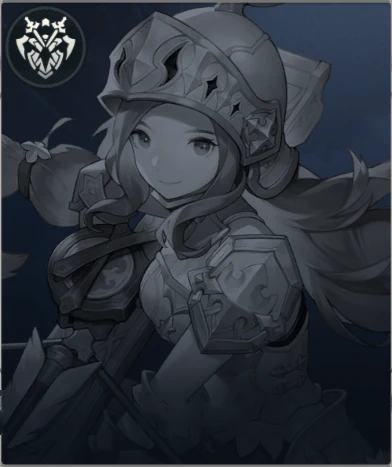
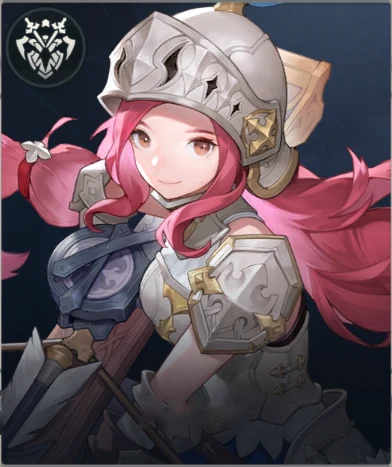
Coloured heroes and Refreshing Canary, titles 34/109, tower selector World-only
Claude-Session: https://claude.ai/code/session_01EEUGEvrXwKPrFvs6vdLXcJ

diff --git a/index.html b/index.html
@@ -1998,7 +1998,7 @@ function renderDamageCalc(){const root=$('dcRoot');if(!root||!DAMAGE_CALC||!DEFE
  <div class="gx-box"><h3>Skill</h3><div class="dc-g"><label class="dc-f"><span>Hero</span><select id="dcHero">${HEROES.map(h=>`<option${h.name===S.hero?' selected':''}>${E(h.name)}</option>`).join('')}</select></label><label class="dc-f dc-w"><span>Skill</span><select id="dcSkill"></select></label><label class="dc-f"><span>Skill level</span><select id="dcLv"></select></label><label class="dc-f" id="dcVarW"><span>How it's used</span><select id="dcVar"></select></label>${num('pct','Skill %')}</div><p class="gx-note" id="dcSkillNote"></p></div>
  <div class="gx-box"><h3>Your stats</h3><p class="gx-sub">${E(C.statsHint)}</p><div class="dc-g">${num('attack','Attack')}${num('cd','Critical Damage %')}${num('cr','Critical Rate %')}${num('ap','Armor Penetration')}${num('di','Defense Ignore %')}${num('all','All Status Additional Attack Power')}${num('inc','Status Additional Attack Power Increase %')}</div>
  <details class="dc-more"><summary>Attack buff not on your panel</summary><p class="gx-note">${E(C.buffHint)}</p><div class="dc-g">${num('apu','Attack Power Up on panel %')}${num('buff','Extra Attack Power %')}</div></details></div>
- <div class="gx-box"><h3>Enemy</h3><div class="dc-where" id="dcWhere" role="group" aria-label="Where">${places.map(p=>`<button type="button" data-place="${E(p.id)}" aria-pressed="${p.id===S.place}"${p.id===S.place?' class="on"':''}>${E(p.label)}</button>`).join('')}</div><div class="dc-g"><label class="dc-on dc-bossw" id="dcBossW"><input type="checkbox" id="dcBoss"${S.boss?' checked':''}>Boss</label><label class="dc-f dc-w" id="dcEnemyW"><span>Enemy</span><select id="dcEnemy"></select></label><label class="dc-f" id="dcElvW"><span>Enemy level</span><input type="number" min="1" step="1" inputmode="numeric" id="dcElv" value="${E(S.elv)}"></label>${num('def','Enemy Defense')}<label class="dc-f" id="dcWeakW"><span>Weak to (Trait Dungeons)</span><select data-k="weak"><option value="">None</option>${C.statuses.filter(s=>s.hitBonus).map(s=>`<option${S.weak===s.name?' selected':''}>${E(s.name)}</option>`).join('')}</select></label><label class="dc-f"><span>Tower of Trials</span><select data-k="tower"><option value="">Not in a tower</option>${(TOWER_TRIALS.towers||[]).map(t=>`<option value="${E(t.id)}"${S.tower===t.id?' selected':''}>${E(t.name)}</option>`).join('')}</select></label></div><p class="gx-note" id="dcEnemyNote"></p></div>
+ <div class="gx-box"><h3>Enemy</h3><div class="dc-where" id="dcWhere" role="group" aria-label="Where">${places.map(p=>`<button type="button" data-place="${E(p.id)}" aria-pressed="${p.id===S.place}"${p.id===S.place?' class="on"':''}>${E(p.label)}</button>`).join('')}</div><div class="dc-g"><label class="dc-on dc-bossw" id="dcBossW"><input type="checkbox" id="dcBoss"${S.boss?' checked':''}>Boss</label><label class="dc-f dc-w" id="dcEnemyW"><span>Enemy</span><select id="dcEnemy"></select></label><label class="dc-f" id="dcElvW"><span>Enemy level</span><input type="number" min="1" step="1" inputmode="numeric" id="dcElv" value="${E(S.elv)}"></label>${num('def','Enemy Defense')}<label class="dc-f" id="dcWeakW"><span>Weak to (Trait Dungeons)</span><select data-k="weak"><option value="">None</option>${C.statuses.filter(s=>s.hitBonus).map(s=>`<option${S.weak===s.name?' selected':''}>${E(s.name)}</option>`).join('')}</select></label><label class="dc-f" id="dcTowerW"><span>Tower of Trials</span><select data-k="tower"><option value="">Not in a tower</option>${(TOWER_TRIALS.towers||[]).map(t=>`<option value="${E(t.id)}"${S.tower===t.id?' selected':''}>${E(t.name)}</option>`).join('')}</select></label></div><p class="gx-note" id="dcEnemyNote"></p></div>
  <div class="gx-box"><h3>Statuses on the enemy</h3><p class="gx-sub">${E(C.statusHint)}</p><div class="gx-wrap"><table class="gx-tbl dc-st"><thead><tr><th>On enemy</th><th>Hit bonus</th><th>Additional Attack Power</th><th>Additional Damage %</th></tr></thead><tbody>${rows}</tbody></table></div></div>
  </div><aside class="gx-box dc-out" id="dcOut" aria-live="polite"></aside></div>`;
  const skSel=$('dcSkill'),lvSel=$('dcLv');
@@ -2015,12 +2015,13 @@ function renderDamageCalc(){const root=$('dcRoot');if(!root||!DAMAGE_CALC||!DEFE
  function dcNeeds(sk){const R=(sk&&sk.meta&&sk.meta.requiresAny)||[],A=C.requireAlias||{},N=C.requireNoLock||[];if(!R.length||R.some(x=>N.includes(x)))return[];return[...new Set(R.map(x=>A[x]||x))].filter(x=>C.statuses.some(t=>t.name===x));}
  function syncReq(){const need=dcNeeds(dcSkills(S.hero)[+skSel.value]),eff=JSON.parse(JSON.stringify(S.st||{})),ticked=need.filter(n=>S.st[n]&&S.st[n].on);let force=[],lock=[];if(need.length===1){force=need;lock=need;}else if(need.length>1){if(!ticked.length){force=[need[0]];lock=force;}else if(ticked.length===1)lock=ticked;}
   force.forEach(n=>{eff[n]={...(eff[n]||{}),on:true};});root.querySelectorAll('input[data-f="on"]').forEach(el=>{const n=el.dataset.st,l=lock.includes(n);el.checked=!!(eff[n]&&eff[n].on);el.disabled=l;const lab=el.closest('.dc-on');lab.classList.toggle('dc-locked',l);lab.title=l?C.lockTitle:'';});return eff;}
- function dcWeak(){return S.place==='trait'?S.weak:'';}
-function dcExtras(){const tw=(TOWER_TRIALS.towers||[]).find(t=>t.id===S.tower),tb=TOWER_TRIALS.bonus||{},dots=(STATUS_EFFECTS.damageOverTime||{}).statuses||[],N=x=>Number(x)||0;
+ function dcTower(){return S.place==='world'?S.tower:'';}
+function dcWeak(){return S.place==='trait'?S.weak:'';}
+function dcExtras(){const tw=(TOWER_TRIALS.towers||[]).find(t=>t.id===dcTower()),tb=TOWER_TRIALS.bonus||{},dots=(STATUS_EFFECTS.damageOverTime||{}).statuses||[],N=x=>Number(x)||0;
   C.statuses.forEach(s=>{const q=a=>root.querySelector(`[${a}="${CSS.escape(s.name)}"]`),hx=q('data-xh'),ax=q('data-xa'),set=(el,v,t)=>{el.hidden=!v;el.textContent=v?'+'+v+'%':'';el.title=t||'';};
    const w=dcWeak()===s.name&&s.hitBonus?s.hitBonus*(C.weaknessMultiplier-1):0;set(hx,w,w?C.weakTip.replace('{s}',s.name).replace('{m}',C.weaknessMultiplier):'');
    const a=tw?(tw.status===s.name?N(tb.own):dots.includes(s.name)?N(tb.dot):N(tb.other)):0;set(ax,a,a?C.towerTip.replace('{t}',tw.name).replace('{w}',tw.status===s.name?C.towerOwn:C.towerDot):'');});}
-function draw(){dcExtras();const eff=syncReq(),r=dcCompute({...S,weak:dcWeak(),st:eff}),out=$('dcOut'),fmt=x=>Math.round(x).toLocaleString('en-GB');if(!(+S.attack>0)||!(+S.pct>0)){out.innerHTML=`<h3>Result</h3><p class="gx-sub">${E(C.emptyHint)}</p>`;return;}
+function draw(){dcExtras();const eff=syncReq(),r=dcCompute({...S,weak:dcWeak(),tower:dcTower(),st:eff}),out=$('dcOut'),fmt=x=>Math.round(x).toLocaleString('en-GB');if(!(+S.attack>0)||!(+S.pct>0)){out.innerHTML=`<h3>Result</h3><p class="gx-sub">${E(C.emptyHint)}</p>`;return;}
   const pc=(a,b)=>b>0?(a/b-1)*100:0,small=[];
   if(+S.ap>0)small.push(`Armor Penetration ${E(S.ap)} adds +${pc(r.non,r.noAp).toFixed(1)}% (+${fmt(r.non-r.noAp)} damage).`);
   if(+S.di>0)small.push(`Defense Ignore ${E(S.di)}% adds +${pc(r.non,r.noDi).toFixed(1)}% (+${fmt(r.non-r.noDi)} damage).`);
@@ -2029,7 +2030,7 @@ function draw(){dcExtras();const eff=syncReq(),r=dcCompute({...S,weak:dcWeak(),s
   if(r.over)small.push(C.overNote);
   if(r.dots.length){const t=(STATUS_EFFECTS.damageOverTime||{}).tickPctByStacks||[];small.push(`${r.dots.map(s=>s.name).join(', ')} ticks: ${t.map(p=>fmt(Math.floor(r.atk*p/100))).join(' / ')} at ${t.map((_,n)=>n+1).join(' / ')} stacks, ${(STATUS_EFFECTS.damageOverTime||{}).ticks} ticks each. They ignore Defense and never crit.`);}
   const un=[];r.on.forEach(s=>{if(s.untested)un.push(s.untested);});if(dcWeak()&&!(C.weaknessMeasured||[]).includes(dcWeak())&&r.on.some(s=>s.name===dcWeak()))un.push(C.weaknessUntested);
-  const tw=(TOWER_TRIALS.towers||[]).find(t=>t.id===S.tower);if(tw&&tw.measured===false)un.push(C.towerUntested);if(tw&&r.dots.some(s=>!((TOWER_TRIALS.bonus||{}).dotTested||[]).includes(s.name)))un.push(C.towerDotUntested);
+  const tw=(TOWER_TRIALS.towers||[]).find(t=>t.id===dcTower());if(tw&&tw.measured===false)un.push(C.towerUntested);if(tw&&r.dots.some(s=>!((TOWER_TRIALS.bonus||{}).dotTested||[]).includes(s.name)))un.push(C.towerDotUntested);
   const ei=dcEnemyInfo();if(ei&&ei.t){if(ei.p.note)un.push(ei.p.note);if(ei.t.once)un.push(C.onceNote);if(ei.t.note)un.push(ei.t.note);if(ei.far)un.push(C.levelFarNote);else if(ei.est)un.push(C.levelEstNote);}
   out.innerHTML=`<h3>Result</h3><div class="dc-big"><div><span>Non-crit</span><b>${fmt(r.non)}</b></div><div><span>Crit</span><b class="dc-c">${fmt(r.crit)}</b></div>${+S.cr>0?`<div><span>Average at ${E(Math.min(+S.cr,100))}% Crit Rate</span><b>${fmt(r.avg)}</b></div>`:''}</div>
   <p class="dc-small">${small.join('<br>')}</p>${un.length?`<p class="dc-small dc-warn">${[...new Set(un)].map(E).join('<br>')}</p>`:''}<p class="dc-small">${(C.notes||[]).map(E).join('<br>')}</p><p class="dc-small">${E(C.formula)}</p><button type="button" class="dc-reset" id="dcReset">Reset</button>`;
@@ -2047,7 +2048,7 @@ function draw(){dcExtras();const eff=syncReq(),r=dcCompute({...S,weak:dcWeak(),s
   else if(world){const groups=[...new Set(types.map(t=>t.group))];body=groups.map(g=>`<optgroup label="${E(g)}">${types.map((t,n)=>t.group===g?`<option value="${n}">${E(t.name)}</option>`:'').join('')}</optgroup>`).join('');val=S.enemy;}
   else if(p.enemies&&!S.boss){body=p.enemies.map((t,n)=>`<option value="${n}">${E(t.name)}</option>`).join('');val=S.nmob;}
   sel.innerHTML=body?body+custom:'';sel.value=S.typed?'custom':String(val);$('dcEnemyW').style.display=body?'':'none';}
- function applyEnemy(){const p=dcPlace(),ei=dcEnemyInfo(),defEl=root.querySelector('[data-k="def"]');fillEnemy();$('dcWeakW').style.display=p.id==='trait'?'':'none';$('dcBossW').style.display=p.bossMult||p.id==='world'?'':'none';$('dcElvW').style.display=p.id==='world'&&S.boss?'none':'';let note='';
+ function applyEnemy(){const p=dcPlace(),ei=dcEnemyInfo(),defEl=root.querySelector('[data-k="def"]');fillEnemy();$('dcWeakW').style.display=p.id==='trait'?'':'none';$('dcTowerW').style.display=p.id==='world'?'':'none';$('dcBossW').style.display=p.bossMult||p.id==='world'?'':'none';$('dcElvW').style.display=p.id==='world'&&S.boss?'none':'';let note='';
   if(!ei)note=C.typedNote;else if(ei.e){S.def=ei.e.defense;note=C.fixedNote;}else{S.def=Math.round(ei.def);note=`Basic enemy at Lv.${E(S.elv)}: ${Math.round(ei.base).toLocaleString('en-GB')}${ei.factor!==1?` × ${ei.factor} (${E(ei.p.label)})`:''}${ei.t.mult!==1?` × ${ei.t.mult}`:''}.`;}
   if(ei)defEl.value=S.def;$('dcEnemyNote').textContent=note;}
  $('dcEnemy').onchange=e=>{const v=e.target.value,p=dcPlace();S.typed=v==='custom';if(!S.typed){if(p.id==='world'&&S.boss)S.wboss=+v;else if(p.id==='world')S.enemy=+v;else S.nmob=+v;}applyEnemy();if(S.typed)root.querySelector('[data-k="def"]').focus();draw();dcSave();};

diff --git a/CHANGELOG.md b/CHANGELOG.md
@@ -1,3 +1,6 @@
+## 7 Nov 2026 — Coloured heroes, Refreshing Canary, titles, tower selector (Claude)
+- Dana, Alex, Theresia, Tarte and Astria: colour portraits cut from David's Codex screenshots with `tools/image/codex_recolor.py`, now owned (all 20 heroes). Refreshing Canary: colour picture, owned; Bird group 2/4. Titles: Snow Alchemist, Saintess of the Dawn, Red Fox obtained (34/109). Source PNGs removed (in git history).
+- Damage calculator (preview): the Tower of Trials selector shows, and counts, only with the World switch on, ready for a separate Tower switch once tower Defense is tested.
 ## 7 Nov 2026 — Calculator: Weak to only in Trait Dungeons (preview, Claude)
 - The Weak to selector shows, and counts, only with the Trait Dungeon switch on.
 ## 7 Nov 2026 — Calculator: coloured tower and weakness bonuses (preview, Claude)
